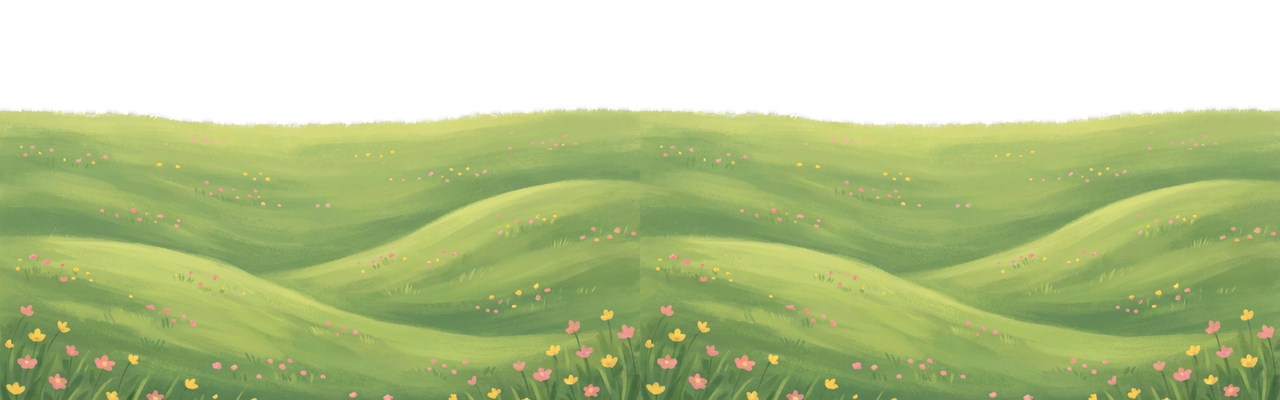
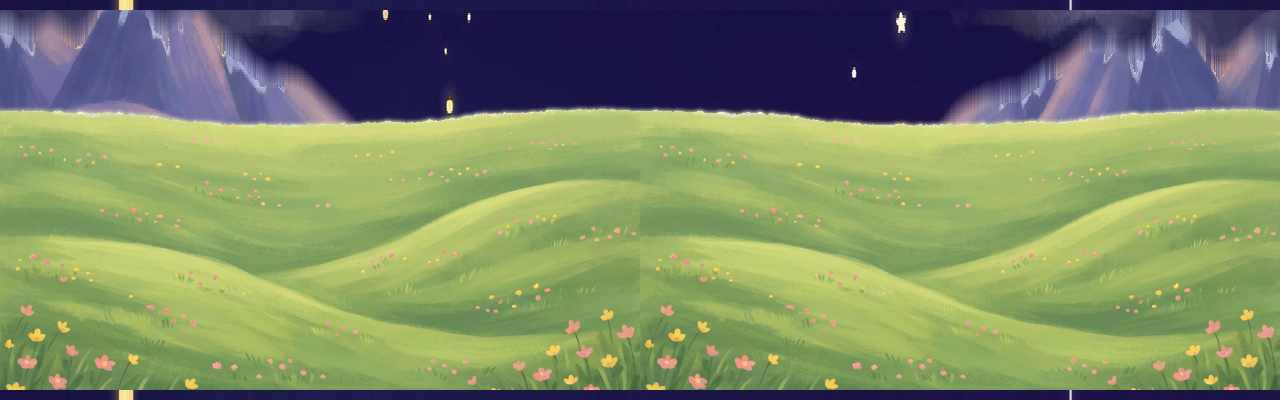
fix(musicbox-v2): edge halos + mountain layer
Three visual polish fixes for the Twinkle scene:

1. Meadow (fg) white halo: despilled semi-transparent edge pixels
   so they fade from meadow green into the background instead of
   from NBP's painted light-gray "transparency" color.

2. Moon crescent dark rectangular halo: thresholded out low-alpha
   noise across the full 128x128 sprite that the chroma keying
   left behind.

3. Mountain (mid) layer invisible: increased render height from
   420 to 650px so mountain peaks extend above the meadow line.

Both mid and fg strips are now pre-composited with the bg sky
to work around an RN Web issue where layered transparent PNGs
don't composite through z-stacked siblings. The NBP-painted
transparency-indicator checkerboard in the mid strip's RGB data
was detected and replaced with a smooth sky-to-mountain gradient.

diff --git a/src/games/musicbox/ScrollingWorld.tsx b/src/games/musicbox/ScrollingWorld.tsx
@@ -35,7 +35,7 @@ export function ScrollingWorld({ scrollX, scene }: Props) {
       <Animated.View
         style={[
           styles.row,
-          { top: 0, zIndex: 0, width: STRIP_W * 2,
+          { top: 0, height: TALL, width: STRIP_W * 2,
             transform: [{ translateX: bgTranslate }] },
         ]}
       >
@@ -43,28 +43,30 @@ export function ScrollingWorld({ scrollX, scene }: Props) {
         <Image source={bgSrc} style={{ width: STRIP_W, height: TALL }} resizeMode="stretch" />
       </Animated.View>
 
-      {/* Midground mountains: bottom portion */}
+      {/* Midground mountains: stretches up above the meadow so peaks show */}
       <Animated.View
         style={[
           styles.row,
-          { bottom: 0, zIndex: 1, width: STRIP_W * 2,
+          { bottom: 0, height: 650, width: STRIP_W * 2,
+            backgroundColor: 'transparent',
             transform: [{ translateX: midTranslate }] },
         ]}
       >
-        <Image source={midSrc} style={{ width: STRIP_W, height: 420 }} resizeMode="cover" />
-        <Image source={midSrc} style={{ width: STRIP_W, height: 420 }} resizeMode="cover" />
+        <Image source={midSrc} style={styles.midImg} resizeMode="stretch" />
+        <Image source={midSrc} style={styles.midImg} resizeMode="stretch" />
       </Animated.View>
 
       {/* Foreground meadow: bottom portion */}
       <Animated.View
         style={[
           styles.row,
-          { bottom: 0, zIndex: 2, width: STRIP_W * 2,
+          { bottom: 0, height: 380, width: STRIP_W * 2,
+            backgroundColor: 'transparent',
             transform: [{ translateX: fgTranslate }] },
         ]}
       >
-        <Image source={fgSrc} style={{ width: STRIP_W, height: 380 }} resizeMode="cover" />
-        <Image source={fgSrc} style={{ width: STRIP_W, height: 380 }} resizeMode="cover" />
+        <Image source={fgSrc} style={styles.fgImg} resizeMode="cover" />
+        <Image source={fgSrc} style={styles.fgImg} resizeMode="cover" />
       </Animated.View>
     </View>
   );
@@ -79,5 +81,15 @@ const styles = StyleSheet.create({
     position: 'absolute',
     left: 0,
     flexDirection: 'row',
+  },
+  midImg: {
+    width: STRIP_W,
+    height: 650,
+    backgroundColor: 'transparent',
+  },
+  fgImg: {
+    width: STRIP_W,
+    height: 380,
+    backgroundColor: 'transparent',
   },
 });
